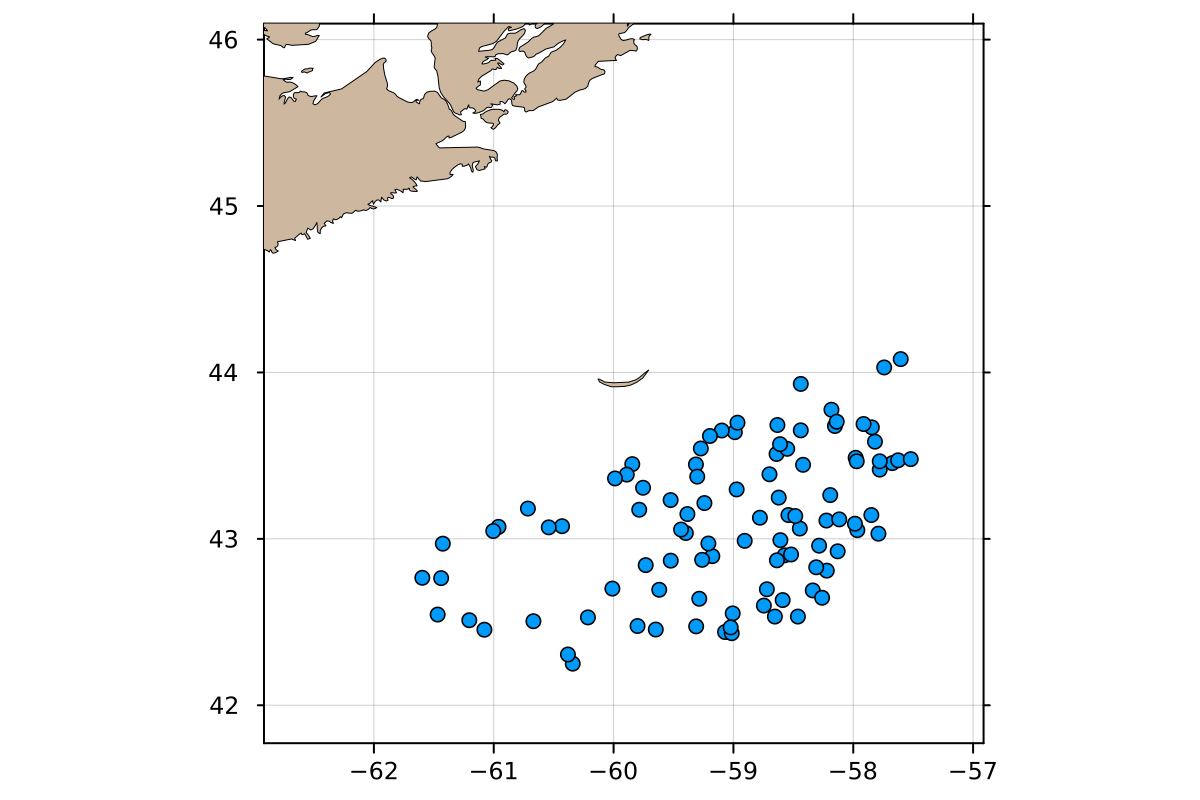
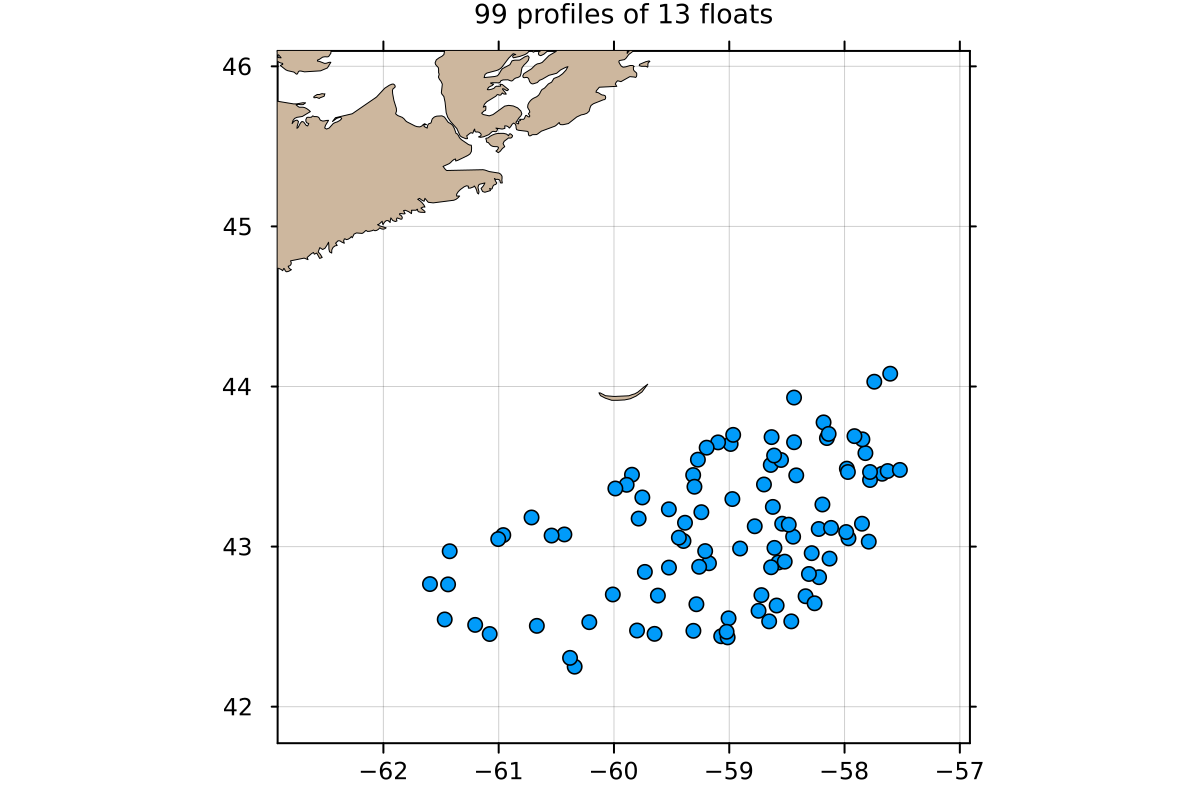
update argo-search plot

diff --git a/docs/src/examples.md b/docs/src/examples.md
@@ -97,7 +97,7 @@ scatter(index.longitude, index.latitude,
 plot_coastline!(coastline())
 # Print the float IDs in this subset
 float_IDs = replace.(index.file, r".*/(.*)_.*" => s"\1") |> unique
-show(float_IDs)
+title!("$(length(index.file)) profiles of $(length(float_IDs)) floats", titlefontsize=9)
 #savefig("argo_search.png")
 ```
 
